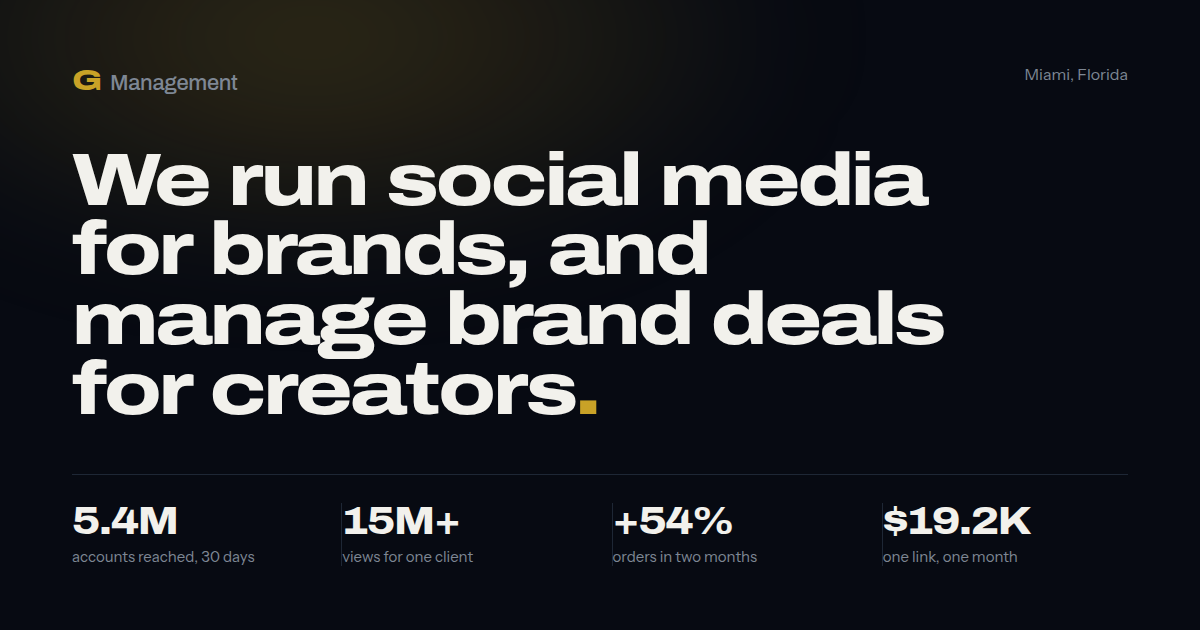
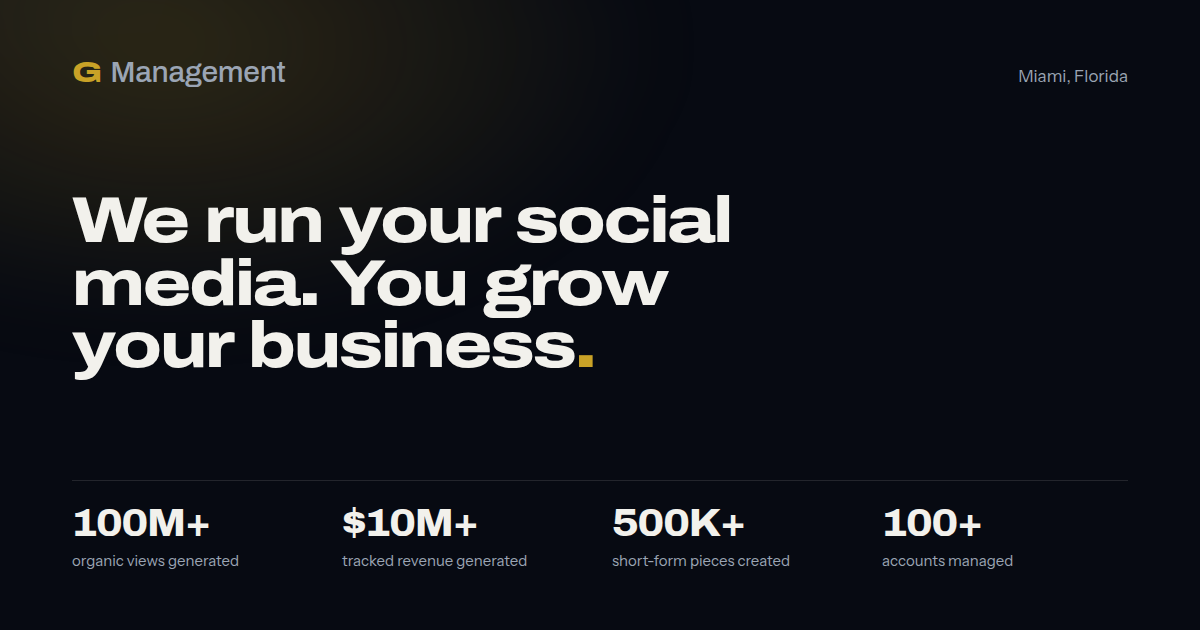
Bring the link preview up to the page it is previewing
The picture that shows in WhatsApp, iMessage, Slack and a Google result still
carried the old headline word for word, and three figures the hero no longer
claims. It is the first thing anyone sees of this site and it disagreed with
the first thing on it.

`tools/og-source.html` turned out not to be the source of the image that
shipped — it had drifted into a plainer layout with no glow, no place line and
gold figures, so regenerating from it replaced a good picture with a worse one.
It is rebuilt here against the shipped PNG: same ink, glow, mark, place line,
hairline and four white figures over grey captions, now carrying the client's
headline and the four numbers under it. The box-sizing bug that was pushing the
place line off the right edge and the whole figures row out of the bottom of
the shot is fixed, and the note above the file says to check a re-shoot against
the last one rather than trust it.

The three descriptions and both image alts follow the same copy. The years come
out of the two Shopify alt texts as well: the client asked for them gone, and an
alt is page copy — Google reads it and a screen reader speaks it.

Three tiles also answered to the same name, "Play the client reel on Vimeo", so
each is named for what is in it.

Claude-Session: https://claude.ai/code/session_01Bkd6vHTHd15XunpXCLgRwg

diff --git a/index.html b/index.html
@@ -5,7 +5,7 @@
 <meta name="viewport" content="width=device-width, initial-scale=1">
 <script>document.documentElement.classList.add('js');</script>
 <title>G Management — social media management and brand deals, Miami</title>
-<meta name="description" content="Manny Garcia runs social media for brands and brand deals for creators, out of Miami. 5.4M accounts reached in 30 days, orders up 54%. Book a 15-minute call.">
+<meta name="description" content="We run your social media so you can grow your business. Strategy, content creation, filming, editing and daily posting, handled from start to finish, out of Miami. Book a 15-minute call.">
 <link rel="canonical" href="https://gmgmt.com/">
 <meta name="robots" content="index, follow, max-image-preview:large, max-snippet:-1">
 <meta name="author" content="Manny Garcia">
@@ -15,18 +15,18 @@
 <meta property="og:site_name" content="G Management">
 <meta property="og:locale" content="en_US">
 <meta property="og:title" content="G Management — social media management and brand deals, Miami">
-<meta property="og:description" content="Short-form video, posted daily, on accounts run end to end. 5.4M accounts reached in 30 days. Orders up 54%. $19,265 through one link. Book a 15-minute call.">
+<meta property="og:description" content="Strategy, content creation, filming, editing and posting, handled from start to finish. 100M+ organic views and $10M+ in tracked revenue generated. Book a 15-minute call.">
 <meta property="og:image" content="https://gmgmt.com/assets/og.png">
 <meta property="og:image:type" content="image/png">
 <meta property="og:image:width" content="1200">
 <meta property="og:image:height" content="630">
-<meta property="og:image:alt" content="G Management, Miami. 5.4M accounts reached in 30 days, 15M+ views for one client, orders up 54%, $19.2K through one link.">
+<meta property="og:image:alt" content="G Management, Miami. 100M+ organic views generated, $10M+ in tracked revenue, 500K+ short-form pieces created, 100+ accounts managed.">
 
 <meta name="twitter:card" content="summary_large_image">
 <meta name="twitter:title" content="G Management — social media management and brand deals, Miami">
-<meta name="twitter:description" content="Short-form video, posted daily, on accounts run end to end. Real client dashboards, with the dates attached.">
+<meta name="twitter:description" content="We run your social media. You grow your business. Real client dashboards, on both sides of the work.">
 <meta name="twitter:image" content="https://gmgmt.com/assets/og.png">
-<meta name="twitter:image:alt" content="G Management, Miami. 5.4M accounts reached in 30 days.">
+<meta name="twitter:image:alt" content="G Management, Miami. 100M+ organic views generated.">
 <meta name="theme-color" content="#070A12">
 
 <link rel="preconnect" href="https://d8j0ntlcm91z4.cloudfront.net" crossorigin>
@@ -2750,7 +2750,7 @@ a.contact__value:hover { color: var(--gold-lift); }
             <span class="reel__play" aria-hidden="true">
               <svg viewBox="0 0 14 16" width="13" height="15" focusable="false"><path d="M0 0 L14 8 L0 16 Z" fill="currentColor"/></svg>
             </span>
-            <span class="visually-hidden">Play the client reel on Vimeo</span>
+            <span class="visually-hidden">Play the Devito &amp; Jenne reel on Vimeo</span>
           </button>
         </figure>
 
@@ -2799,27 +2799,27 @@ a.contact__value:hover { color: var(--gold-lift); }
 
         <figure class="reel" data-reel style="--ar: 0.5625"
                 data-embed="https://player.vimeo.com/video/1228117949?h=b011f6df36&amp;autoplay=1&amp;title=0&amp;byline=0&amp;portrait=0&amp;dnt=1"
-                data-embed-title="A client reel on Vimeo">
+                data-embed-title="The brow-stamp client reel on Vimeo">
           <button class="reel__frame" type="button" data-reel-btn>
             <img class="reel__thumb" src="/assets/clips/reel-4-poster-v1.webp" alt=""
                  width="486" height="864" loading="lazy" decoding="async" fetchpriority="low">
             <span class="reel__play" aria-hidden="true">
               <svg viewBox="0 0 14 16" width="13" height="15" focusable="false"><path d="M0 0 L14 8 L0 16 Z" fill="currentColor"/></svg>
             </span>
-            <span class="visually-hidden">Play the client reel on Vimeo</span>
+            <span class="visually-hidden">Play the brow-stamp client reel on Vimeo</span>
           </button>
         </figure>
 
         <figure class="reel reel--solo" data-reel style="--ar: 0.5625"
                 data-embed="https://player.vimeo.com/video/1228118012?h=dc3e0d3d8e&amp;autoplay=1&amp;title=0&amp;byline=0&amp;portrait=0&amp;dnt=1"
-                data-embed-title="A client reel on Vimeo">
+                data-embed-title="The watercolour-kit client reel on Vimeo">
           <button class="reel__frame" type="button" data-reel-btn>
             <img class="reel__thumb" src="/assets/clips/reel-5-poster-v1.webp" alt=""
                  width="486" height="864" loading="lazy" decoding="async" fetchpriority="low">
             <span class="reel__play" aria-hidden="true">
               <svg viewBox="0 0 14 16" width="13" height="15" focusable="false"><path d="M0 0 L14 8 L0 16 Z" fill="currentColor"/></svg>
             </span>
-            <span class="visually-hidden">Play the client reel on Vimeo</span>
+            <span class="visually-hidden">Play the watercolour-kit client reel on Vimeo</span>
           </button>
         </figure>
 
@@ -2968,7 +2968,7 @@ a.contact__value:hover { color: var(--gold-lift); }
               <button class="shot" type="button" data-proof="/assets/proof/houdini-before-v2.webp" style="--ar: 2.439">
                 <img src="/assets/proof/houdini-before-v2.webp" loading="lazy" decoding="async"
                    width="1200" height="492"
-                   alt="Shopify dashboard, September 1 to 30, 2024: 77,440 sessions, 1,544 orders, 1.85 per cent conversion rate.">
+                   alt="Shopify dashboard, September 1 to 30: 77,440 sessions, 1,544 orders, 1.85 per cent conversion rate.">
                 <span class="shot__zoom" aria-hidden="true"><svg viewBox="0 0 14 14" width="11" height="11" focusable="false"><path d="M5 1H1v4M9 13h4V9M1 9v4h4M13 5V1H9" stroke="currentColor" stroke-width="1.6" fill="none"/></svg>Full size</span>
                 <span class="visually-hidden">Open the full screenshot</span>
               </button>
@@ -2979,7 +2979,7 @@ a.contact__value:hover { color: var(--gold-lift); }
               <button class="shot" type="button" data-proof="/assets/proof/houdini-after-v2.webp" style="--ar: 2.2388">
                 <img src="/assets/proof/houdini-after-v2.webp" loading="lazy" decoding="async"
                    width="1200" height="536"
-                   alt="Shopify dashboard, November 1 to 30, 2024: 131,814 sessions, 3,272 orders, 2.23 per cent conversion rate.">
+                   alt="Shopify dashboard, November 1 to 30: 131,814 sessions, 3,272 orders, 2.23 per cent conversion rate.">
                 <span class="shot__zoom" aria-hidden="true"><svg viewBox="0 0 14 14" width="11" height="11" focusable="false"><path d="M5 1H1v4M9 13h4V9M1 9v4h4M13 5V1H9" stroke="currentColor" stroke-width="1.6" fill="none"/></svg>Full size</span>
                 <span class="visually-hidden">Open the full screenshot</span>
               </button>

diff --git a/tools/og-source.html b/tools/og-source.html
@@ -4,10 +4,17 @@
 <meta charset="utf-8">
 <title>og source</title>
 <style>
-  /* This used to link /assets/css/styles.css, which stopped existing when the
-     stylesheet moved into index.html. Regenerating assets/og.png would have
-     produced an unstyled 1200x630 image in Helvetica on white. Only the tokens
-     and faces this file actually uses are repeated here. */
+  /* The source for assets/og.png, rebuilt to match the image that actually
+     shipped. The file that used to sit here had drifted into a different,
+     plainer layout — no glow, no place line, gold figures, three of them — so
+     regenerating from it quietly replaced a good picture with a worse one.
+     This one is measured against the shipped PNG: same ink, same glow, same
+     mark, same place line, same hairline, same four figures in white over grey
+     captions. Change the copy here and re-shoot; do not change the furniture
+     without looking at the result beside the old one.
+
+     It cannot link the stylesheet: the styles live inside index.html. Only the
+     tokens and the two faces this file uses are repeated. */
   @font-face { font-family: 'Archivo'; src: url('/assets/fonts/archivo-latin-v5.woff2') format('woff2');
                font-weight: 400 800; font-stretch: 100% 125%; }
   @font-face { font-family: 'Instrument Sans'; src: url('/assets/fonts/instrument-sans-latin-v5.woff2') format('woff2');
@@ -20,39 +27,69 @@
     --font-display: 'Archivo', 'Helvetica Neue', Arial, sans-serif;
     --font-body: 'Instrument Sans', 'Helvetica Neue', Arial, sans-serif;
   }
+  /* Without this the 1200x630 box plus its padding is 1344x750, so the place
+     line runs off the right edge and the whole figures row falls out of the
+     bottom of the shot — which is exactly what the drifted source was doing. */
+  *, *::before, *::after { box-sizing: border-box; }
   html, body { margin: 0; }
-  body { font-family: var(--font-body); color: var(--paper); background: var(--ink); }
-  body { width: 1200px; height: 630px; overflow: hidden; }
+  body { width: 1200px; height: 630px; overflow: hidden;
+         font-family: var(--font-body); color: var(--paper); background: var(--ink); }
+
   .og {
+    position: relative;
     width: 1200px; height: 630px;
-    padding: 64px;
+    padding: 56px 72px 60px;
     display: flex; flex-direction: column; justify-content: space-between;
     background: var(--ink);
-    border-top: 8px solid var(--gold);
+    overflow: hidden;
   }
-  .og__mark { font-family: var(--font-display); font-weight: 800; font-stretch: 125%;
-              letter-spacing: -0.02em; font-size: 28px; }
-  .og__mark span { color: var(--grey); font-weight: 500; font-stretch: 100%; }
-  .og__line { font-family: var(--font-display); font-weight: 800; font-stretch: 125%;
-              font-size: 56px; line-height: 0.98; letter-spacing: -0.03em; max-width: 22ch; }
-  .og__row { display: flex; gap: 64px; align-items: baseline; }
+  /* the light field, the one thing the drifted source had lost */
+  .og::before {
+    content: "";
+    position: absolute; inset: -30% -10% 20% -20%;
+    background:
+      radial-gradient(46% 58% at 26% 34%, rgba(201, 162, 39, 0.20), transparent 70%),
+      radial-gradient(38% 46% at 8% 8%, rgba(242, 241, 236, 0.05), transparent 72%);
+    filter: blur(40px);
+    pointer-events: none;
+  }
+  .og > * { position: relative; }
+
+  .og__top { display: flex; align-items: baseline; justify-content: space-between; }
+  .og__mark { margin: 0; font-family: var(--font-display); font-weight: 800; font-stretch: 125%;
+              letter-spacing: -0.02em; font-size: 30px; color: var(--gold); }
+  .og__mark span { color: var(--grey); font-weight: 500; font-stretch: 100%;
+                   letter-spacing: -0.01em; }
+  .og__where { margin: 0; font-size: 17px; color: var(--grey); }
+
+  .og__line { font-family: var(--font-display); font-weight: 800; font-stretch: 122%;
+              font-size: 64px; line-height: 0.98; letter-spacing: -0.035em;
+              max-width: 15ch; margin: 0; }
+  .og__line i { font-style: normal; color: var(--gold); }
+
+  .og__foot { border-top: 1px solid rgba(242, 241, 236, 0.12); padding-top: 24px;
+              display: grid; grid-template-columns: repeat(4, 1fr); gap: 24px; }
   .og__fig { font-family: var(--font-display); font-weight: 800; font-stretch: 112%;
-             font-size: 44px; letter-spacing: -0.03em; font-variant-numeric: tabular-nums;
-             color: var(--gold); line-height: 1; }
-  .og__cap { font-size: 15px; color: var(--grey); margin-top: 8px; }
-  .og__foot { font-size: 18px; color: var(--grey); }
+             font-size: 38px; letter-spacing: -0.03em; font-variant-numeric: tabular-nums;
+             line-height: 1; margin: 0; }
+  .og__cap { font-size: 15px; color: var(--grey); margin: 8px 0 0; }
 </style>
 </head>
 <body>
 <div class="og">
-  <p class="og__mark">G <span>Management</span></p>
-  <h1 class="og__line">We run social media for brands, and manage brand deals for creators.</h1>
-  <div class="og__row">
-    <div><p class="og__fig">5,487,050</p><p class="og__cap">Accounts reached in 30 days</p></div>
-    <div><p class="og__fig">+54%</p><p class="og__cap">Orders in two months</p></div>
-    <div><p class="og__fig">$19,265</p><p class="og__cap">One link, one month</p></div>
+  <div class="og__top">
+    <p class="og__mark">G <span>Management</span></p>
+    <p class="og__where">Miami, Florida</p>
   </div>
-  <p class="og__foot" style="display:flex; gap:32px;"><span>Miami, Florida</span><span>manny@gmgmt.co</span></p>
+
+  <h1 class="og__line">We run your social media. You grow your business<i>.</i></h1>
+
+  <div class="og__foot">
+    <div><p class="og__fig">100M+</p><p class="og__cap">organic views generated</p></div>
+    <div><p class="og__fig">$10M+</p><p class="og__cap">tracked revenue generated</p></div>
+    <div><p class="og__fig">500K+</p><p class="og__cap">short-form pieces created</p></div>
+    <div><p class="og__fig">100+</p><p class="og__cap">accounts managed</p></div>
+  </div>
 </div>
 </body>
 </html>

diff --git a/team/index.html b/team/index.html
@@ -20,7 +20,7 @@
 <meta property="og:image:type" content="image/png">
 <meta property="og:image:width" content="1200">
 <meta property="og:image:height" content="630">
-<meta property="og:image:alt" content="G Management, Miami. 5.4M accounts reached in 30 days, 15M+ views for one client, orders up 54%, $19.2K through one link.">
+<meta property="og:image:alt" content="G Management, Miami. 100M+ organic views generated, $10M+ in tracked revenue, 500K+ short-form pieces created, 100+ accounts managed.">
 
 <meta name="twitter:card" content="summary_large_image">
 <meta name="twitter:title" content="The team — G Management, Miami">
